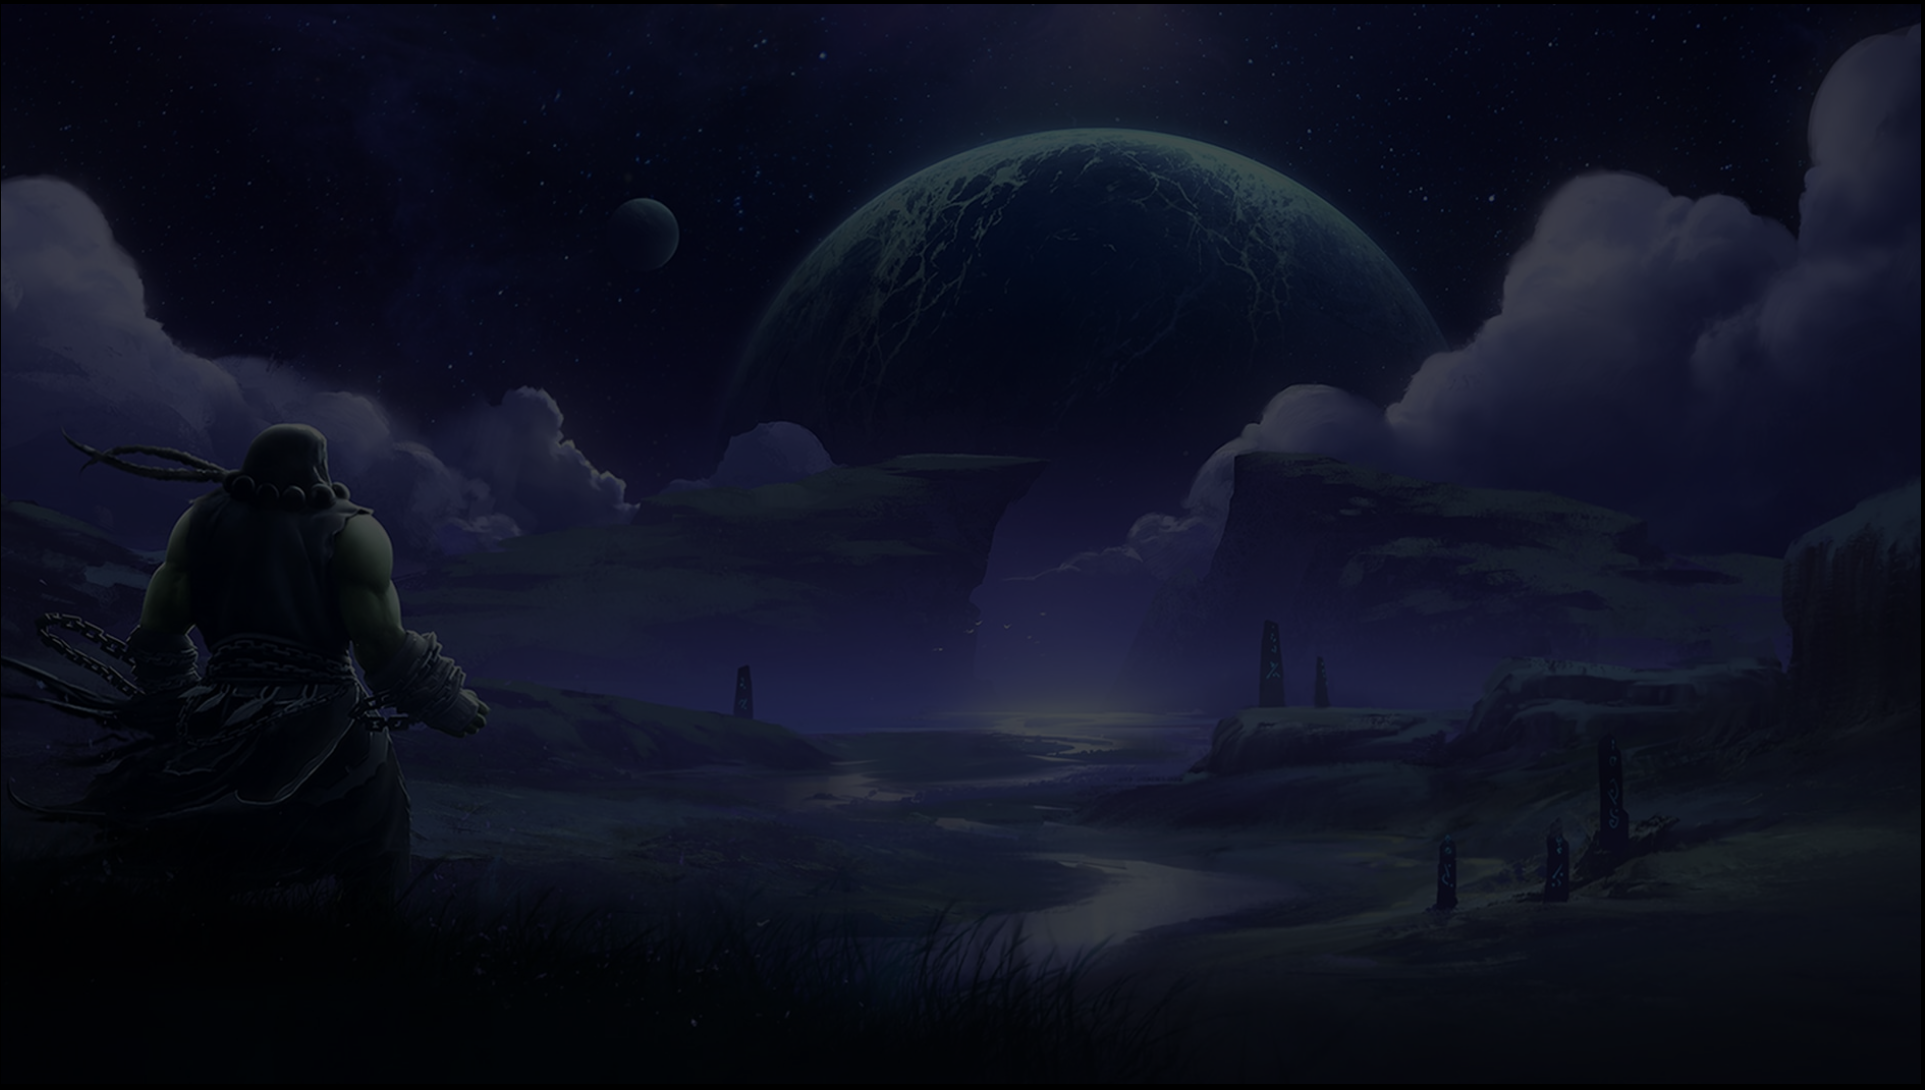
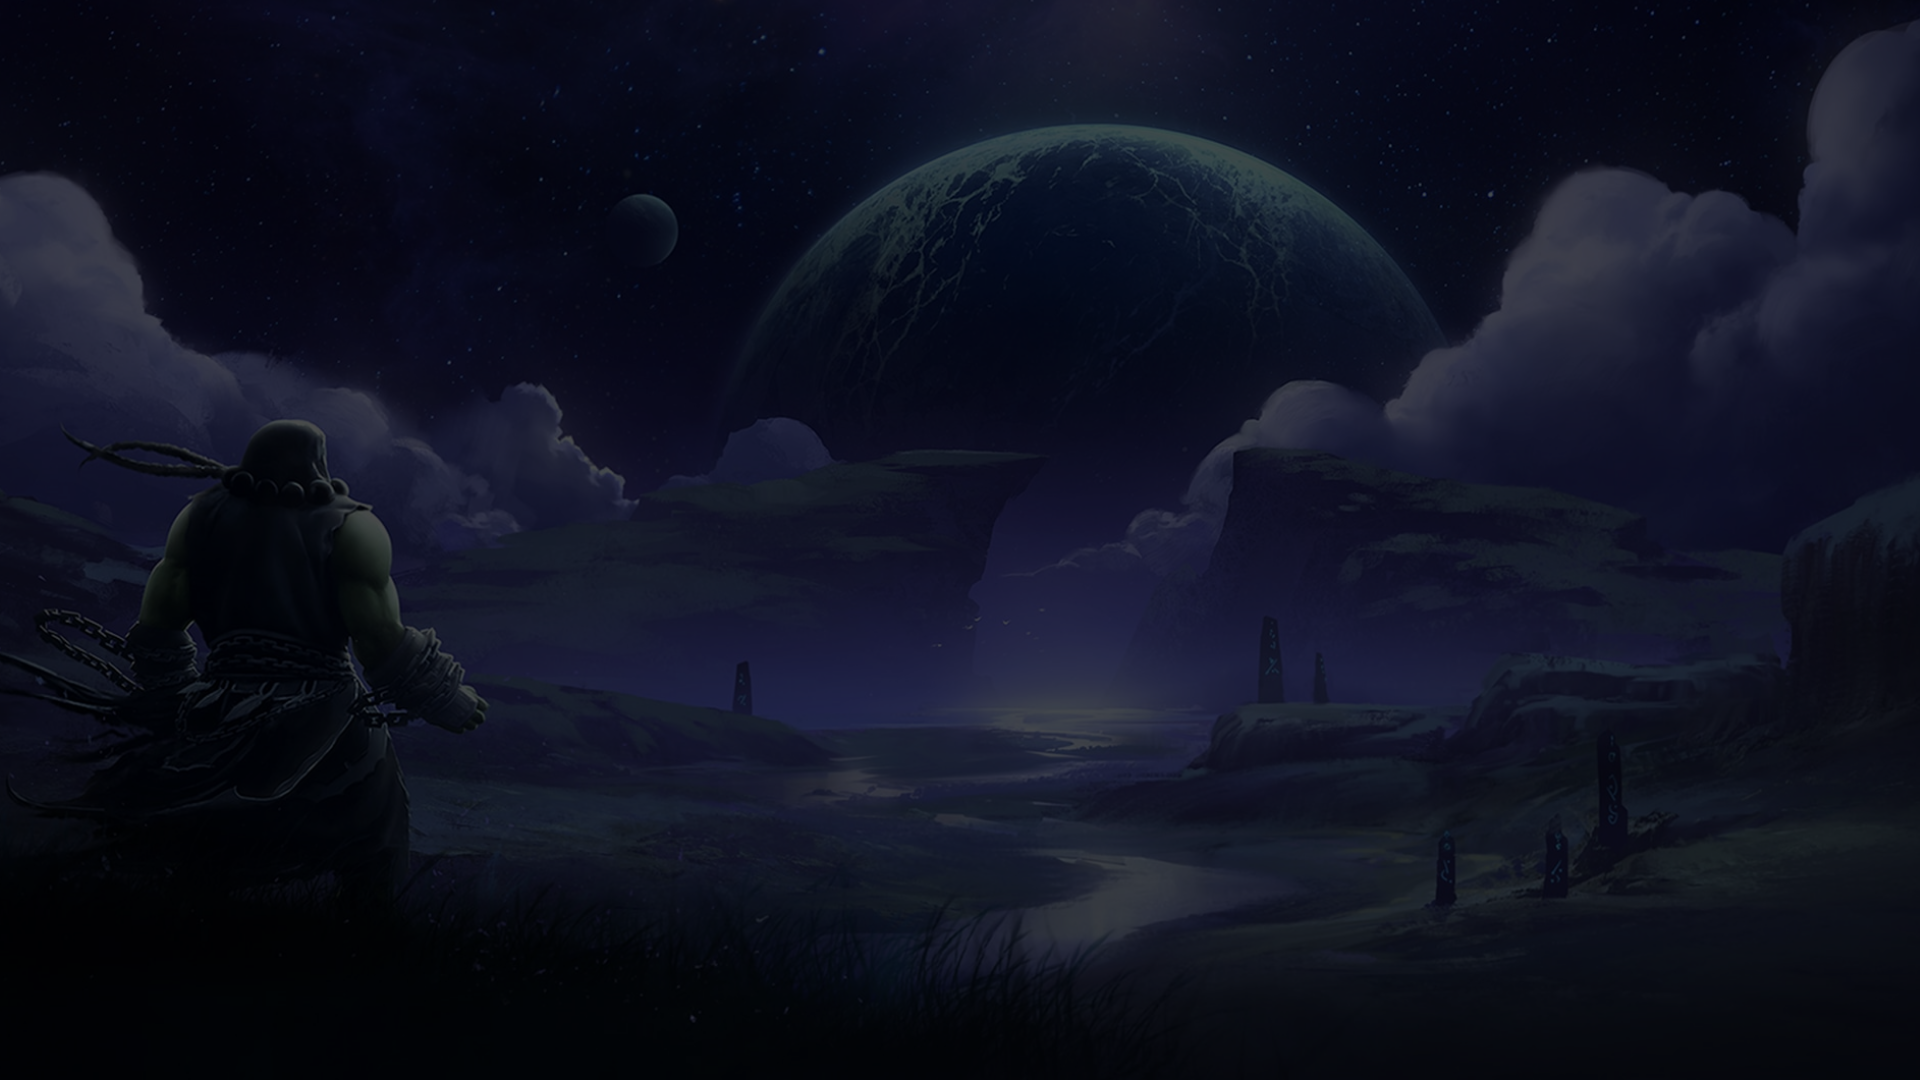
Fixed login page input growth Removed black borders from Thrall background "Componentized" dashboard

diff --git a/pages/dashboard/index.vue b/pages/dashboard/index.vue
@@ -1,49 +1,5 @@
 <template>
-  <div class="bg-cover min-h-screen static" style="background-image: url('assets/img/thrallbg.png')">
-
-    <aside class="fixed flex flex-col w-56 max-h-screen px-10 py-6 bg-white bg-opacity-90 items-center">
-      <div class="flex flex-col mb-6 text-center">
-        <div class="items-center w-32 h-32 mb-2 overflow-hidden rounded-full border-4 border-rblue">
-          <img class="h-full w-full" src="assets/img/sylv.jpg" alt="">
-        </div>
-        <span class="text-rblue font-rtext text-2xl tracking-wide font-bold">Sylvanas</span>
-      </div>
-
-      <div class="flex flex-col">
-        <div class="pt-2 w-56 h-32 cursor-pointer hover:bg-rblue hover:bg-opacity-25">
-          <img class="w-16 mt-4 mb-1" src="assets/icons/pve_pvp.png" alt="" style="margin-left: 5rem;">
-          <span class="text-rblue font-rtext text-xl" style="margin-left: 4.4rem;">PROGRESS</span>
-        </div>
-        <div class="pt-2 w-56 h-32 cursor-pointer hover:bg-rblue hover:bg-opacity-25">
-          <img class="w-12 mt-4 mb-1" src="assets/icons/equipment.png" alt="" style="margin-left: 5.5rem;">
-          <span class="text-rblue font-rtext text-xl" style="margin-left: 3.9rem;">EQUIPMENT</span>
-        </div>
-        <div class="pt-2 w-56 h-32 cursor-pointer hover:bg-rblue hover:bg-opacity-25">
-          <img class="w-12 mt-4 mb-1" src="assets/icons/collections.png" alt="" style="margin-left: 5.5rem;">
-          <span class="text-rblue font-rtext text-xl" style="margin-left: 3.3rem;">COLLECTIONS</span>
-        </div>
-        <div class="pt-2 w-56 h-32 cursor-pointer hover:bg-rblue hover:bg-opacity-25">
-          <img class="w-12 mt-4 mb-1" src="assets/icons/guild.png" alt="" style="margin-left: 5.3rem;">
-          <span class="text-rblue font-rtext text-xl" style="margin-left: 5.2rem;">GUILD</span>
-        </div>
-        <div class="pt-2 w-56 h-32 cursor-pointer hover:bg-rblue hover:bg-opacity-25">
-          <img class="w-12 mt-4 mb-1" src="assets/icons/settings.png" alt="" style="margin-left: 5.3rem;">
-          <span class="text-rblue font-rtext text-xl" style="margin-left: 4.4rem;">SETTINGS</span>
-        </div>
-      </div>
-
-      <a class="hover:bg-rblue-hover cursor-pointer px-3 py-2 w-40 m-4 bg-rblue text-white text-center font-rtext text-xl font-medium tracking-wider rounded-full">LOG OUT</a>
-    </aside>
-
-  <div class="fixed flex ml-64 items-center">
-      <span class="text-rblue font-rtitle text-5xl font-extrabold tracking-widest p-4" style="margin-right: 900px;">RAIDHUB</span>
-      <div class="container flex mx-4 mt-4 max-h-12 border-2 rounded-full py-2 px-4 border-rblue">
-        <img class="w-7 h-7" src="assets/icons/search.png" alt="">
-        <input type="text" class="px-4 py-2 w-80 outline-none bg-transparent text-rblue" placeholder="Search">
-      </div>
-      <img class="w-8 h-8 mt-4" src="assets/icons/darkmode.png" alt="">
-    </div>
-  </div>
+  <main class="ml-56 mt-12 bg-white">Hello</main>
 </template>
 <script lang="ts">
 export default defineComponent({

diff --git a/components/Dashboard/Navigation.vue b/components/Dashboard/Navigation.vue
@@ -1,0 +1,57 @@
+<template>
+  <aside class="fixed top-0 flex flex-col w-56 max-h-screen px-10 py-6 bg-white bg-opacity-90 items-center">
+    <div class="flex flex-col mb-6 text-center">
+      <div class="items-center w-32 h-32 mb-2 overflow-hidden rounded-full border-4 border-rblue">
+        <img class="h-full w-full" src="assets/img/sylv.jpg" alt="" />
+      </div>
+      <span class="text-rblue font-rtext text-2xl tracking-wide font-bold">Sylvanas</span>
+    </div>
+
+    <div class="flex flex-col">
+      <div class="pt-2 w-56 h-32 cursor-pointer hover:bg-rblue hover:bg-opacity-25">
+        <img class="w-16 mt-4 mb-1" src="assets/icons/pve_pvp.png" alt="" style="margin-left: 5rem" />
+        <span class="text-rblue font-rtext text-xl" style="margin-left: 4.4rem">PROGRESS</span>
+      </div>
+      <div class="pt-2 w-56 h-32 cursor-pointer hover:bg-rblue hover:bg-opacity-25">
+        <img class="w-12 mt-4 mb-1" src="assets/icons/equipment.png" alt="" style="margin-left: 5.5rem" />
+        <span class="text-rblue font-rtext text-xl" style="margin-left: 3.9rem">EQUIPMENT</span>
+      </div>
+      <div class="pt-2 w-56 h-32 cursor-pointer hover:bg-rblue hover:bg-opacity-25">
+        <img class="w-12 mt-4 mb-1" src="assets/icons/collections.png" alt="" style="margin-left: 5.5rem" />
+        <span class="text-rblue font-rtext text-xl" style="margin-left: 3.3rem">COLLECTIONS</span>
+      </div>
+      <div class="pt-2 w-56 h-32 cursor-pointer hover:bg-rblue hover:bg-opacity-25">
+        <img class="w-12 mt-4 mb-1" src="assets/icons/guild.png" alt="" style="margin-left: 5.3rem" />
+        <span class="text-rblue font-rtext text-xl" style="margin-left: 5.2rem">GUILD</span>
+      </div>
+      <div class="pt-2 w-56 h-32 cursor-pointer hover:bg-rblue hover:bg-opacity-25">
+        <img class="w-12 mt-4 mb-1" src="assets/icons/settings.png" alt="" style="margin-left: 5.3rem" />
+        <span class="text-rblue font-rtext text-xl" style="margin-left: 4.4rem">SETTINGS</span>
+      </div>
+    </div>
+
+    <a
+      class="
+        hover:bg-rblue-hover
+        cursor-pointer
+        px-3
+        py-2
+        w-40
+        m-4
+        bg-rblue
+        text-white text-center
+        font-rtext
+        text-xl
+        font-medium
+        tracking-wider
+        rounded-full
+      "
+      >LOG OUT</a
+    >
+  </aside>
+</template>
+<script lang="ts">
+export default defineComponent({
+  name: 'Navigation'
+})
+</script>

diff --git a/components/CharacterFinder.vue b/components/CharacterFinder.vue
@@ -9,7 +9,7 @@
       >
         <option v-for="(region, index) in $config.regions" :value="region" :key="index" v-text="region.toUpperCase()" />
       </select>
-      <div class="relative col-span-4 md:flex-shrink">
+      <div class="relative col-span-4 md:flex-grow">
         <input
           type="text"
           id="characterName"
@@ -35,9 +35,12 @@
       </div>
       <RealmSelector :region="region" v-model="realm" class="col-span-3 row-start-2" />
     </div>
-    <button class="w-full rounded-lg bg-rblue text-white p-4 font-bold transition hover:bg-rblue-hover">
+    <NuxtLink
+      to="/dashboard"
+      class="text-center w-full rounded-lg bg-rblue text-white p-4 font-bold transition hover:bg-rblue-hover"
+    >
       Get Dashboard
-    </button>
+    </NuxtLink>
   </form>
 </template>
 <script lang="ts">

diff --git a/components/Dashboard/Header.vue b/components/Dashboard/Header.vue
@@ -1,0 +1,17 @@
+<template>
+  <div class="fixed top-0 flex ml-64 items-center">
+    <span class="text-rblue font-rtitle text-5xl font-extrabold tracking-widest p-4" style="margin-right: 900px"
+      >RAIDHUB</span
+    >
+    <div class="container flex mx-4 mt-4 max-h-12 border-2 rounded-full py-2 px-4 border-rblue">
+      <img class="w-7 h-7" src="assets/icons/search.png" alt="" />
+      <input type="text" class="px-4 py-2 w-80 outline-none bg-transparent text-rblue" placeholder="Search" />
+    </div>
+    <img class="w-8 h-8 mt-4" src="assets/icons/darkmode.png" alt="" />
+  </div>
+</template>
+<script lang="ts">
+export default defineComponent({
+  name: 'Header'
+})
+</script>

diff --git a/layouts/dashboard.vue b/layouts/dashboard.vue
@@ -1,8 +1,15 @@
 <template>
-  <div>
+  <div class="absolute w-full h-screen bg-outland bg-cover overflow-hidden">
+    <DashboardNavigation />
+    <DashboardHeader />
     <slot />
   </div>
 </template>
 <script lang="ts">
 import '@/assets/tailwind.scss'
 </script>
+<style lang="scss" scoped>
+.bg-outland {
+  background-image: url('assets/img/thrallbg.png');
+}
+</style>
